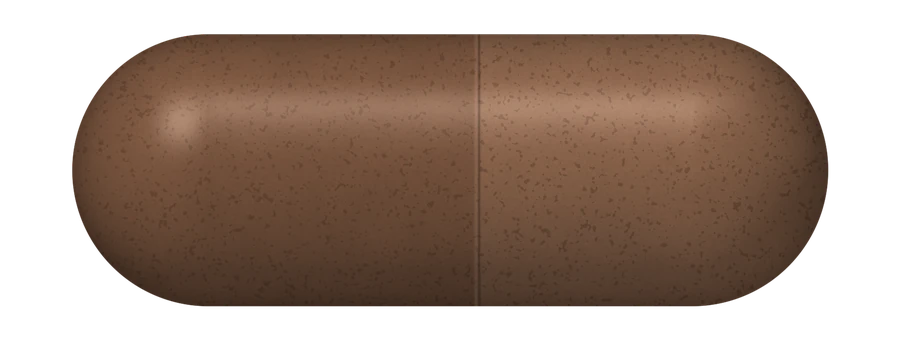
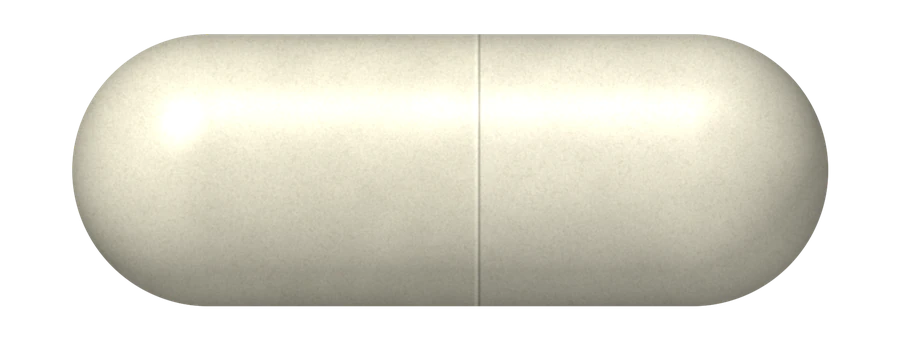
Add Supplement Facts for every capsule and match catalog colors
Magnesium, vitamin C, zinc, glycine, NAC and the probiotic now carry
their OK Capsule Supplement Facts, other ingredients and label warnings.
Doses are shown on each card. Magnesium, vitamin C, zinc and probiotic
capsule renders now match OK Capsule's catalog photos.

Claude-Session: https://claude.ai/code/session_01HrdixeedbzusQTcVYnvNMv

diff --git a/src/data/ingredients.js b/src/data/ingredients.js
@@ -2,14 +2,23 @@
 // Every item is from OK Capsule's formulary. Before launch, have a pharmacist or formulator
 // confirm the menu, the per-capsule doses and the max counts below.
 // max = the most of one capsule allowed in a pouch. signature = how many the default pouch has.
-// facts = Supplement Facts rows per capsule [nutrient, amount, % Daily Value], copied from OK Capsule. other = other ingredients.
+// facts = Supplement Facts rows per capsule [nutrient, amount, % Daily Value], copied from OK Capsule. other = other ingredients. warn = label warnings beyond 'keep out of reach of children'.
+// \u2020 means no Daily Value is established.
 
 export const PRICE = 129;
 export const MAX_CAPS = 6;
 
 export const INGREDIENTS = [
-  { id: 'level', name: 'Level', ingredient: 'Magnesium', dose: '', blurb: 'Helps support normal muscle and nerve function.*', img: 'cap-still', max: 2, signature: 2 },
-  { id: 'bright', name: 'Bright', ingredient: 'Vitamin C', dose: '1,000 mg', blurb: 'An antioxidant that helps support normal immune function.*', img: 'cap-bright', max: 1, signature: 1 },
+  {
+    id: 'level', name: 'Level', ingredient: 'Magnesium', dose: '133 mg', blurb: 'Magnesium glycinate. Helps support normal muscle and nerve function.*', img: 'cap-still', max: 2, signature: 2,
+    facts: [['Magnesium (as magnesium glycinate, 20% magnesium)', '133 mg', '32%']],
+    other: 'Hypromellose (vegetable capsule), microcrystalline cellulose, magnesium stearate, silica, stearic acid.',
+  },
+  {
+    id: 'bright', name: 'Bright', ingredient: 'Vitamin C', dose: '1,000 mg', blurb: 'An antioxidant that helps support normal immune function.*', img: 'cap-bright', max: 1, signature: 1,
+    facts: [['Vitamin C (as ascorbic acid)', '1,000 mg', '1111%']],
+    other: 'Hypromellose (capsule), magnesium stearate, silica.',
+  },
   {
     id: 'spark', name: 'Spark', ingredient: 'Methyl B-complex', dose: '8 B vitamins', blurb: 'B vitamins that help support normal energy metabolism.*', img: 'cap-steady', max: 1, signature: 1,
     facts: [
@@ -23,12 +32,33 @@ export const INGREDIENTS = [
       ['Biotin', '300 mcg', '1000%'],
       ['Pantothenic acid (as D-calcium pantothenate)', '50 mg', '1000%'],
     ],
+    warn: 'If you are pregnant or nursing, consult your physician before taking this product.',
     other: 'Microcrystalline cellulose, vegetable capsule (hypromellose), MCT 70% C8/C10 coconut on acacia (GoMCT).',
   },
-  { id: 'core', name: 'Core', ingredient: 'Zinc', dose: '25 mg', blurb: 'An essential mineral that helps support normal immune function.*', img: 'cap-guard', max: 1, signature: 1 },
-  { id: 'glow', name: 'Glow', ingredient: 'Glycine', dose: '', blurb: 'An amino acid your body uses to build proteins, including collagen.*', img: 'cap-glycine', max: 1, signature: 1 },
-  { id: 'prime', name: 'Prime', ingredient: 'NAC', dose: '600 mg', blurb: 'A form of the amino acid cysteine that your body uses to make the antioxidant glutathione.*', img: 'cap-nac', max: 1, signature: 0 },
-  { id: 'culture', name: 'Culture', ingredient: 'Probiotic', dose: '10 billion CFU', blurb: 'Live cultures that help support normal digestive health.*', img: 'cap-probiotic', max: 1, signature: 0 },
+  {
+    id: 'core', name: 'Core', ingredient: 'Zinc', dose: '25 mg', blurb: 'An essential mineral that helps support normal immune function.*', img: 'cap-guard', max: 1, signature: 1,
+    facts: [['Zinc', '25 mg', '227%']],
+    other: 'Vegetable capsule, rice flour.',
+  },
+  {
+    id: 'glow', name: 'Glow', ingredient: 'Glycine', dose: '850 mg', blurb: 'An amino acid your body uses to build proteins, including collagen.*', img: 'cap-glycine', max: 1, signature: 1,
+    facts: [['L-glycine', '850 mg', '\u2020']],
+    other: 'Hypromellose (capsule).',
+  },
+  {
+    id: 'prime', name: 'Prime', ingredient: 'NAC', dose: '600 mg', blurb: 'A form of the amino acid cysteine that your body uses to make the antioxidant glutathione.*', img: 'cap-nac', max: 1, signature: 0,
+    facts: [['N-acetyl cysteine', '600 mg', '\u2020']],
+    other: 'Hypromellose (natural vegetable capsule), rice (Oryza sativa cera) bran, magnesium stearate, silica.',
+  },
+  {
+    id: 'culture', name: 'Culture', ingredient: 'Probiotic', dose: '10 strains', blurb: 'Ten strains of live cultures plus inulin, to help support normal digestive health.*', img: 'cap-probiotic', max: 1, signature: 0,
+    facts: [
+      ['Inulin / fructooligosaccharides', '100 mg', '\u2020'],
+      ['Proprietary blend: Lactobacillus casei, L. paracasei, L. acidophilus, L. bulgaricus, Bifidobacterium bifidum, L. rhamnosus, L. brevis, L. plantarum, L. salivarius, B. lactis', '39 mg', '\u2020'],
+    ],
+    warn: 'Discontinue use and consult your physician if any adverse conditions occur. If you are pregnant, nursing, taking medication, have a medical condition, or are under medical supervision, consult your healthcare professional before use.',
+    other: 'Cellulose, dicalcium phosphate, silica, magnesium stearate (vegetable).',
+  },
 ];
 
 export const SIGNATURE = Object.fromEntries(INGREDIENTS.filter((i) => i.signature).map((i) => [i.id, i.signature]));
